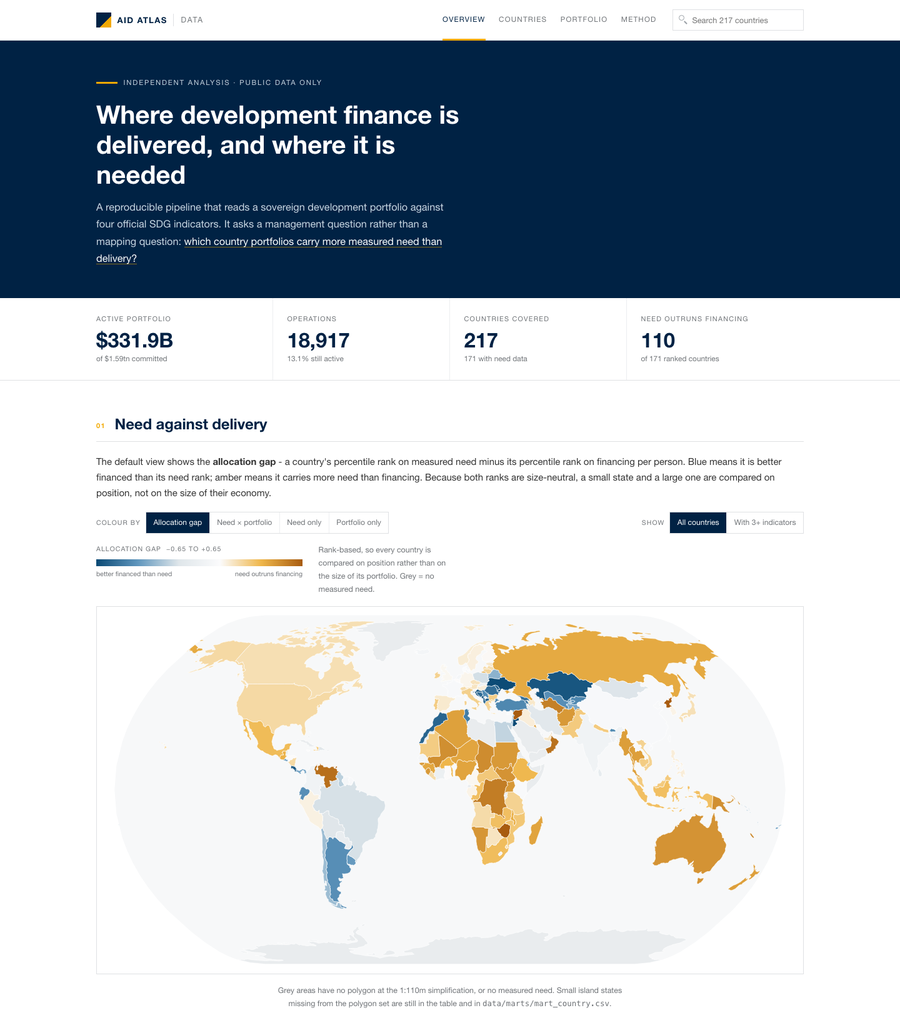
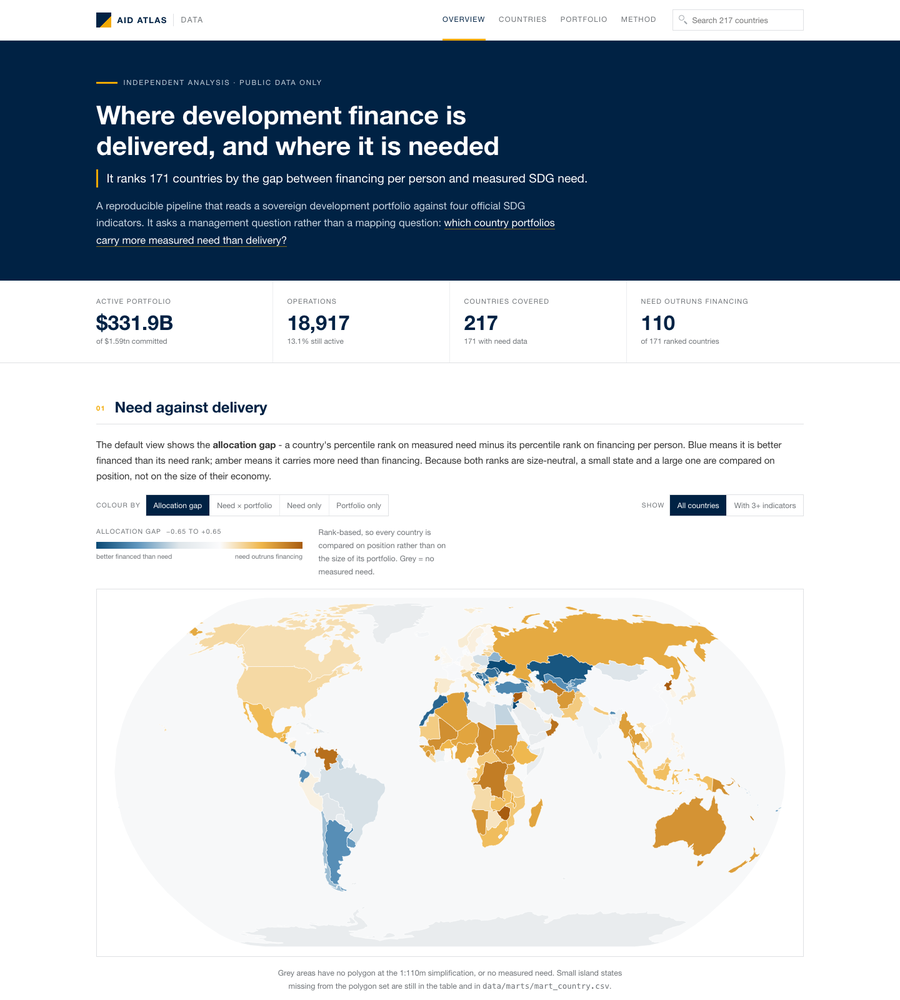
Five stages, and a hero that states the claim
The page described four stages while the README diagram drew five, so the two
disagreed on the same pipeline. Both now name the same five, in the same order:
Source, Snapshot, Build, Model, Publish. The diagram itself was redrawn: it
still carried the old name, and quoted 9 models, 5 tables and 19 tests.

The hero now says what the tool does before it explains how: one line under the
heading, set larger and marked with the amber rule - it ranks 171 countries by
the gap between financing per person and measured SDG need. The paragraph
beneath it keeps the provenance. Measures are capped at 100% so the text cannot
overflow a narrow viewport.

diff --git a/docs/img/pipeline.source.html b/docs/img/pipeline.source.html
@@ -1,0 +1,107 @@
+<!doctype html>
+<html lang="en">
+<head>
+<meta charset="utf-8">
+<title>Aid Atlas pipeline</title>
+<style>
+  :root{--navy:#002244;--amber:#f2a900;--ink:#1b2733;--muted:#5b6b78;--hair:#dfe4e8;}
+  *{box-sizing:border-box}
+  body{margin:0;width:1200px;height:340px;background:#fff;color:var(--ink);
+       font-family:"Helvetica Neue",Helvetica,Arial,sans-serif;-webkit-font-smoothing:antialiased}
+  .pad{padding:26px 32px 0}
+  .hd{display:flex;align-items:center;gap:9px}
+  .mark{position:relative;width:20px;height:16px;background:var(--navy)}
+  .mark:after{content:"";position:absolute;right:0;bottom:0;width:9px;height:8px;background:var(--amber)}
+  .word{font-size:12.5px;letter-spacing:.16em;font-weight:700;color:var(--navy)}
+  .sub{margin:5px 0 0 29px;font-size:8.5px;letter-spacing:.15em;color:#8c9aa6;text-transform:uppercase}
+  .rule{height:2px;background:var(--navy);margin:12px 0 16px}
+  .row{display:flex;align-items:stretch}
+  .card{flex:1;border:1px solid var(--hair);border-top:3px solid var(--amber);
+        padding:10px 12px 11px;min-height:196px}
+  .card .st{font-size:7.5px;letter-spacing:.18em;color:#b07c14;font-weight:700}
+  .card h3{margin:4px 0 8px;font-size:14px;color:var(--navy);letter-spacing:.01em}
+  .card ul{list-style:none;margin:0;padding:0}
+  .card li{font-size:8.6px;line-height:1.45;color:var(--muted);padding:4px 0;border-top:1px solid #eef1f3}
+  .card li:first-child{border-top:0}
+  .card li b{display:block;font-size:8.8px;color:var(--ink);font-weight:600}
+  .card li code{display:block;font-family:"SFMono-Regular",Menlo,Consolas,monospace;
+                font-size:8.2px;color:#294a63;margin-bottom:1px}
+  .arrow{width:26px;display:flex;align-items:center;justify-content:center}
+  .arrow span{width:0;height:0;border-left:9px solid #c9a35a;border-top:5px solid transparent;
+              border-bottom:5px solid transparent}
+  .foot{margin-top:18px;font-size:8.2px;line-height:1.6;color:#7d8b96}
+  .card li i{font-family:"SFMono-Regular",Menlo,Consolas,monospace;font-style:normal;
+             font-size:8.2px;color:#294a63}
+  
+</style>
+</head>
+<body>
+<div class="pad">
+  <div class="hd"><div class="mark"></div><div class="word">AID ATLAS</div></div>
+  <div class="sub">Reproducible pipeline &middot; public data only</div>
+  <hr class="rule">
+
+  <div class="row">
+    <div class="card">
+      <div class="st">STAGE 01</div><h3>Source</h3>
+      <ul>
+        <li><b>World Bank Projects</b>commitments, status, dates</li>
+        <li><b>World Bank Indicators</b>population, income group</li>
+        <li><b>UN SDG API</b>4 series, 2000&ndash;2024</li>
+        <li>18,917 operations</li>
+      </ul>
+    </div>
+    <div class="arrow"><span></span></div>
+
+    <div class="card">
+      <div class="st">STAGE 02</div><h3>Snapshot</h3>
+      <ul>
+        <li>Frozen once, never edited</li>
+        <li><code>data/raw/*.json.gz</code></li>
+        <li>5 gzipped payloads</li>
+        <li><b>manifest.json</b>retrieved_at, sha256, rows</li>
+        <li><code>pipeline/ingest.py</code>--force &middot; --sample</li>
+      </ul>
+    </div>
+    <div class="arrow"><span></span></div>
+
+    <div class="card">
+      <div class="st">STAGE 03</div><h3>Build</h3>
+      <ul>
+        <li>Parse, clean, load</li>
+        <li><code>data/staging/*.csv</code>generated, not versioned</li>
+        <li><code>data/warehouse.db</code>three schemas</li>
+        <li><b>pipeline/build.py</b>amount &middot; date &middot; sector rules</li>
+      </ul>
+    </div>
+    <div class="arrow"><span></span></div>
+
+    <div class="card">
+      <div class="st">STAGE 04</div><h3>Model</h3>
+      <ul>
+        <li>SQL over the warehouse</li>
+        <li><code>models/*.sql</code>11 models: <i>int_*</i> &rarr; <i>mart_*</i></li>
+        <li><code>data/marts/*.csv</code>7 published tables</li>
+        <li>34 unit tests</li>
+      </ul>
+    </div>
+    <div class="arrow"><span></span></div>
+
+    <div class="card">
+      <div class="st">STAGE 05</div><h3>Publish</h3>
+      <ul>
+        <li>One self-contained file</li>
+        <li><code>site/index.html</code>payload inlined, D3 from CDN</li>
+        <li><code>pipeline/site.py</code>renders map &middot; tables &middot; legend</li>
+        <li>13 assertions gate the render</li>
+        <li>GitHub Pages, rebuilt on every push</li>
+      </ul>
+    </div>
+  </div>
+
+  <div class="foot"><b>Python 3 standard library only</b> &middot; no third-party runtime dependencies &middot;
+    every number in the dashboard is reproducible from <code>data/raw/</code> with one command &middot;
+    snapshot dates carried through from <code>manifest.json</code></div>
+</div>
+</body>
+</html>

diff --git a/site/index.html b/site/index.html
@@ -65,8 +65,11 @@
   .kicker{display:flex;align-items:center;gap:.6rem;font-size:.71rem;letter-spacing:.16em;
           text-transform:uppercase;color:#c6d2de;margin-bottom:1.1rem}
   .kicker b{display:block;width:34px;height:3px;background:var(--amber)}
-  .hero h1{color:#fff;max-width:26ch}
-  .hero .lede{color:#c9d6e2;font-size:1.02rem;max-width:64ch;margin:0}
+  .hero h1{color:#fff;max-width:min(34ch,100%);font-size:2.6rem;text-wrap:balance}
+  .hero .goal{color:#fff;font-size:1.2rem;line-height:1.5;max-width:min(80ch,100%);
+              margin:0 0 1rem;padding-left:.85rem;border-left:3px solid var(--amber)}
+  .hero .lede{color:#c9d6e2;font-size:1.03rem;max-width:min(82ch,100%);margin:0;
+              text-wrap:pretty}
   .hero .lede em{color:#fff;font-style:normal;border-bottom:1px solid rgba(242,169,0,.55)}
 
   /* ---------- stat strip ---------- */
@@ -142,7 +145,7 @@
   .pbar{height:6px;background:#e8eaec;position:relative}
   .pbar span{position:absolute;left:0;top:0;bottom:0;background:var(--blue)}
   .two{display:grid;grid-template-columns:1.05fr .95fr;gap:2.6rem;align-items:start}
-  .steps{display:grid;grid-template-columns:repeat(4,1fr);gap:1px;background:var(--rule);
+  .steps{display:grid;grid-template-columns:repeat(5,1fr);gap:1px;background:var(--rule);
          border:1px solid var(--rule);margin:1.1rem 0 1.9rem}
   .steps>div{background:#fff;padding:.8rem .75rem .9rem}
   .steps .n{font-size:.6rem;letter-spacing:.12em;color:var(--amber);font-weight:700}
@@ -213,6 +216,8 @@
   <div class="in">
     <div class="kicker"><b></b>Independent analysis &middot; public data only</div>
     <h1>Where development finance is delivered, and where it is needed</h1>
+    <p class="goal">It ranks 171 countries by the gap between financing per person and
+    measured SDG need.</p>
     <p class="lede">A reproducible pipeline that reads a sovereign development portfolio against four
     official SDG indicators. It asks a management question rather than a mapping question:
     <em>which country portfolios carry more measured need than delivery?</em></p>
@@ -384,19 +389,21 @@
     <div><h2>Method, and what this cannot tell you</h2></div></div>
   <h3>How it works</h3>
   <div class="steps">
-    <div><span class="n">01</span><b>Ingest</b>
-      <p>Checksummed snapshots to <code>data/raw</code> and a manifest, so every downstream
-      number can be reproduced without touching the network again.</p></div>
-    <div><span class="n">02</span><b>Staging</b>
-      <p>The register flattened: one row per operation, one row per country link, commitments
-      split evenly across recipients. Generated on every build, never versioned.</p></div>
-    <div><span class="n">03</span><b>Marts</b>
+    <div><span class="n">01</span><b>Source</b>
+      <p>Public data only: the project register, four SDG series, and the population and
+      income fields that make both readable per person.</p></div>
+    <div><span class="n">02</span><b>Snapshot</b>
+      <p>Each download is checksummed into <code>data/raw</code> with a manifest, so every
+      downstream number can be reproduced without touching the network again.</p></div>
+    <div><span class="n">03</span><b>Build</b>
+      <p>The register flattened into staging CSVs: one row per operation, one per country
+      link, commitments split evenly. Generated on every build, never versioned.</p></div>
+    <div><span class="n">04</span><b>Model</b>
       <p>Plain SQL files in filename order, <code>int_*</code> then <code>mart_*</code>. Eleven
       models produce seven published tables; no mart reads a CSV directly.</p></div>
-    <div><span class="n">04</span><b>Check, then publish</b>
-      <p>Thirteen assertions over the warehouse and the marts; a failure exits non-zero and
-      stops the render. The site then embeds the marts and geometry into one HTML file, with
-      only D3 from a CDN.</p></div>
+    <div><span class="n">05</span><b>Publish</b>
+      <p>Thirteen assertions over warehouse and marts; a failure exits non-zero and stops the
+      render. The site then embeds marts and geometry into one file, only D3 from a CDN.</p></div>
   </div>
   <div class="method">
     <div>

diff --git a/pipeline/site.py b/pipeline/site.py
@@ -348,8 +348,11 @@ TEMPLATE = r"""<!doctype html>
   .kicker{display:flex;align-items:center;gap:.6rem;font-size:.71rem;letter-spacing:.16em;
           text-transform:uppercase;color:#c6d2de;margin-bottom:1.1rem}
   .kicker b{display:block;width:34px;height:3px;background:var(--amber)}
-  .hero h1{color:#fff;max-width:26ch}
-  .hero .lede{color:#c9d6e2;font-size:1.02rem;max-width:64ch;margin:0}
+  .hero h1{color:#fff;max-width:min(34ch,100%);font-size:2.6rem;text-wrap:balance}
+  .hero .goal{color:#fff;font-size:1.2rem;line-height:1.5;max-width:min(80ch,100%);
+              margin:0 0 1rem;padding-left:.85rem;border-left:3px solid var(--amber)}
+  .hero .lede{color:#c9d6e2;font-size:1.03rem;max-width:min(82ch,100%);margin:0;
+              text-wrap:pretty}
   .hero .lede em{color:#fff;font-style:normal;border-bottom:1px solid rgba(242,169,0,.55)}
 
   /* ---------- stat strip ---------- */
@@ -425,7 +428,7 @@ TEMPLATE = r"""<!doctype html>
   .pbar{height:6px;background:#e8eaec;position:relative}
   .pbar span{position:absolute;left:0;top:0;bottom:0;background:var(--blue)}
   .two{display:grid;grid-template-columns:1.05fr .95fr;gap:2.6rem;align-items:start}
-  .steps{display:grid;grid-template-columns:repeat(4,1fr);gap:1px;background:var(--rule);
+  .steps{display:grid;grid-template-columns:repeat(5,1fr);gap:1px;background:var(--rule);
          border:1px solid var(--rule);margin:1.1rem 0 1.9rem}
   .steps>div{background:#fff;padding:.8rem .75rem .9rem}
   .steps .n{font-size:.6rem;letter-spacing:.12em;color:var(--amber);font-weight:700}
@@ -496,6 +499,8 @@ TEMPLATE = r"""<!doctype html>
   <div class="in">
     <div class="kicker"><b></b>Independent analysis &middot; public data only</div>
     <h1>Where development finance is delivered, and where it is needed</h1>
+    <p class="goal">It ranks 171 countries by the gap between financing per person and
+    measured SDG need.</p>
     <p class="lede">A reproducible pipeline that reads a sovereign development portfolio against four
     official SDG indicators. It asks a management question rather than a mapping question:
     <em>which country portfolios carry more measured need than delivery?</em></p>
@@ -667,19 +672,21 @@ TEMPLATE = r"""<!doctype html>
     <div><h2>Method, and what this cannot tell you</h2></div></div>
   <h3>How it works</h3>
   <div class="steps">
-    <div><span class="n">01</span><b>Ingest</b>
-      <p>Checksummed snapshots to <code>data/raw</code> and a manifest, so every downstream
-      number can be reproduced without touching the network again.</p></div>
-    <div><span class="n">02</span><b>Staging</b>
-      <p>The register flattened: one row per operation, one row per country link, commitments
-      split evenly across recipients. Generated on every build, never versioned.</p></div>
-    <div><span class="n">03</span><b>Marts</b>
+    <div><span class="n">01</span><b>Source</b>
+      <p>Public data only: the project register, four SDG series, and the population and
+      income fields that make both readable per person.</p></div>
+    <div><span class="n">02</span><b>Snapshot</b>
+      <p>Each download is checksummed into <code>data/raw</code> with a manifest, so every
+      downstream number can be reproduced without touching the network again.</p></div>
+    <div><span class="n">03</span><b>Build</b>
+      <p>The register flattened into staging CSVs: one row per operation, one per country
+      link, commitments split evenly. Generated on every build, never versioned.</p></div>
+    <div><span class="n">04</span><b>Model</b>
       <p>Plain SQL files in filename order, <code>int_*</code> then <code>mart_*</code>. Eleven
       models produce seven published tables; no mart reads a CSV directly.</p></div>
-    <div><span class="n">04</span><b>Check, then publish</b>
-      <p>Thirteen assertions over the warehouse and the marts; a failure exits non-zero and
-      stops the render. The site then embeds the marts and geometry into one HTML file, with
-      only D3 from a CDN.</p></div>
+    <div><span class="n">05</span><b>Publish</b>
+      <p>Thirteen assertions over warehouse and marts; a failure exits non-zero and stops the
+      render. The site then embeds marts and geometry into one file, only D3 from a CDN.</p></div>
   </div>
   <div class="method">
     <div>

diff --git a/README.md b/README.md
@@ -10,7 +10,7 @@
 [![Licence](https://img.shields.io/badge/licence-MIT-6b6f66?style=flat-square)](LICENSE)
 
 A reproducible pipeline that places a sovereign development portfolio on the same axis as
-measured service need, and ranks the countries where the two diverge. It is built as a
+measured service need, and ranks the 171 countries where both exist and the two diverge. It is built as a
 management instrument — a defensible review population for portfolio performance work —
 rather than as a map, and the geospatial layer is a reading aid, not the answer.
 
@@ -184,21 +184,24 @@ snapshot, not a recommendation.
   <img src="docs/img/pipeline.png" alt="Five stages: source, snapshot, build, model, publish" width="1000">
 </p>
 
-1. **Ingest** writes checksummed snapshots to `data/raw/` and records a manifest, so every
-   downstream number can be reproduced without touching the network again.
-2. **Staging** flattens the project register: one row per operation, one row per
-   operation–country link, with commitments split evenly across recipients. These CSVs are
-   generated on every build and are not versioned.
-3. **Marts** are plain SQL files run in filename order. Intermediates are `int_*`, published
-   tables are `mart_*`. Nothing in a mart reads a CSV directly. Eleven models produce seven
-   published tables.
-4. **Check, then publish.** `pipeline/dq.py` runs 13 assertions over the warehouse and the
-   marts and writes `mart_dq.csv`; the renderer reads that file, and a failing check stops the
-   build before a page is written. **Site** then embeds the marts and the country geometry into
-   one HTML file. Only D3 is fetched from a CDN; there is no runtime API call.
+1. **Source** is public data only: the sovereign project register, four SDG indicators, and
+   the population and income fields that make them readable per person. No figure depends on a
+   private feed.
+2. **Snapshot.** Each download is checksummed into `data/raw/` and recorded in a manifest, so
+   every downstream number can be reproduced without touching the network again.
+3. **Build** flattens the project register: one row per operation, one row per
+   operation–country link, with commitments split evenly across recipients. These staging CSVs
+   are generated on every build and are not versioned.
+4. **Model.** Plain SQL files run in filename order. Intermediates are `int_*`, published tables
+   are `mart_*`; nothing in a mart reads a CSV directly. Eleven models produce seven published
+   tables.
+5. **Publish.** `pipeline/dq.py` runs 13 assertions over the warehouse and the marts and writes
+   `mart_dq.csv`; the renderer reads that file, and a failing check stops the build before a
+   page is written. The site then embeds the marts and the country geometry into one HTML file.
+   Only D3 is fetched from a CDN; there is no runtime API call.
 
-The same four stages are printed on the page, in section 06, so a reader of the dashboard does
-not have to leave it to find out where the numbers came from.
+The same five stages, with the same names, are printed on the page in section 06, so a reader of
+the dashboard does not have to leave it to find out where the numbers came from.
 
 The pipeline is standard library only. No pandas, no ORM, no third-party runtime dependency —
 a reviewer can read every line that produces a number.
@@ -230,7 +233,7 @@ docs/
   data_quality.md     the 13 checks, their thresholds, and what a failure means
   reallocation-case.md  the five per cent scenario as a one-page business case
   decisions/          ADRs for the choices that had alternatives
-  img/                screenshots and the pipeline diagram used above
+  img/                screenshots of the page, and the pipeline diagram with its HTML source
 sops/
   refresh-data.md     quarterly refresh, step by step
   add-an-indicator.md extending the need index
